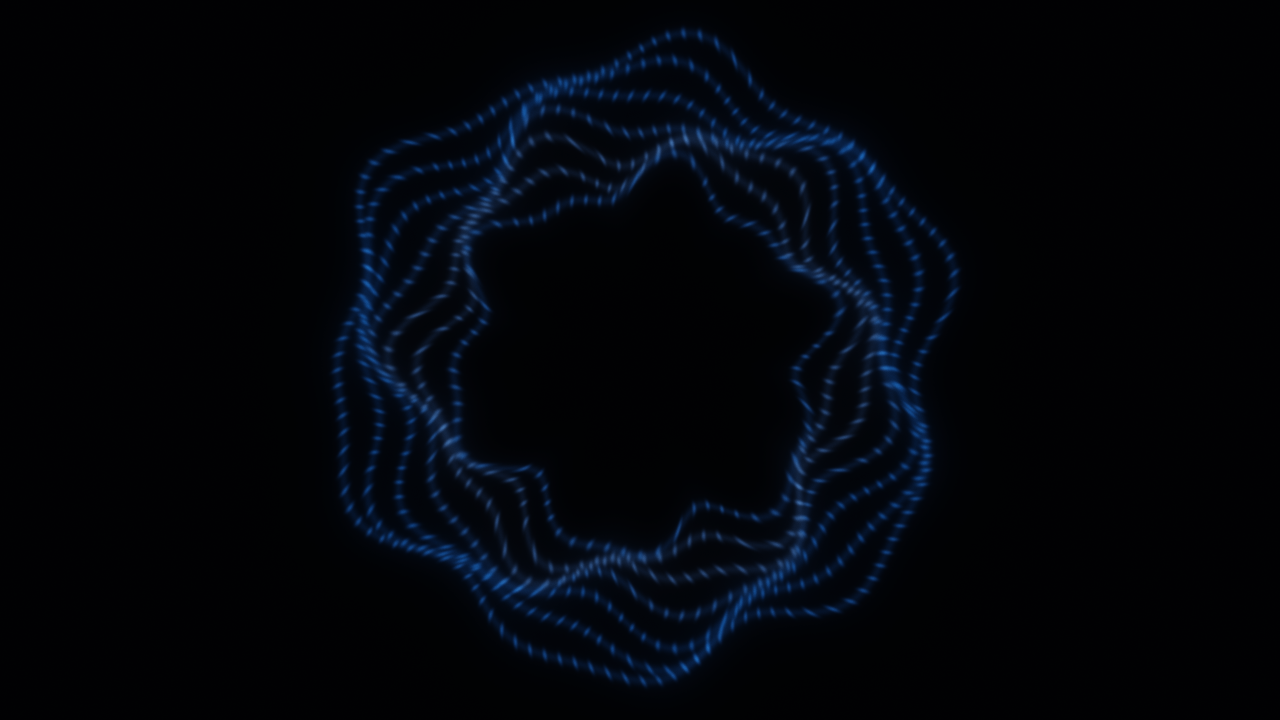
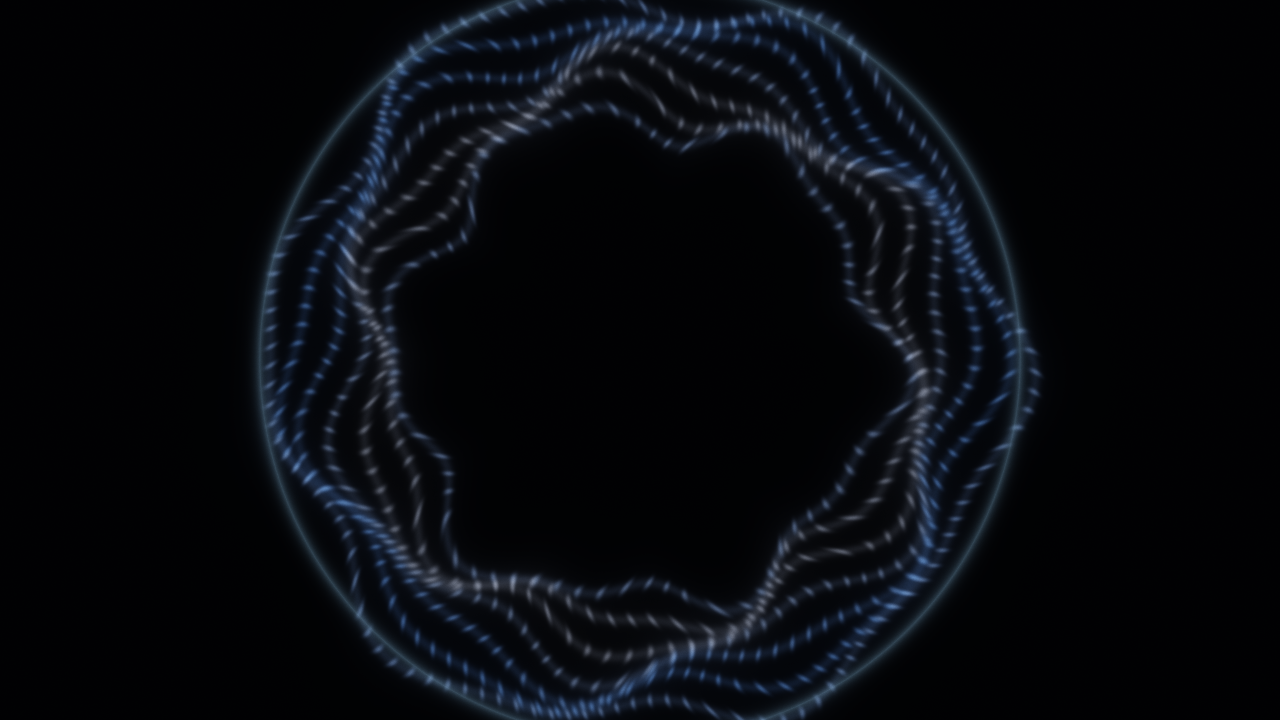
Fix native fullscreen output and hide auxiliary dialogs

Changed region(s): [[0.1875, 0.0, 0.8125, 1.0]]

diff --git a/touchdesigner/build.py b/touchdesigner/build.py
@@ -33,6 +33,9 @@ try:
  e=c.create('executeDAT','update'); e.text=(BASE/'audio_features.py').read_text(); e.par.framestart=True
  c.par.top='out1'; c.par.w=1280; c.par.h=720
  for i,n in enumerate(c.children): n.nodeX=(i%5)*220; n.nodeY=-(i//5)*160
+ w=op('/perform')
+ w.par.winop=output; w.par.size='fill'; w.par.borders=False
+ w.par.includedialog=False; w.par.alwaysontop=True
  project.cookRate=60
  target=BASE/'VoiceCanvas.toe'
  if target.exists(): target.replace(BASE/'VoiceCanvas.previous.toe')
